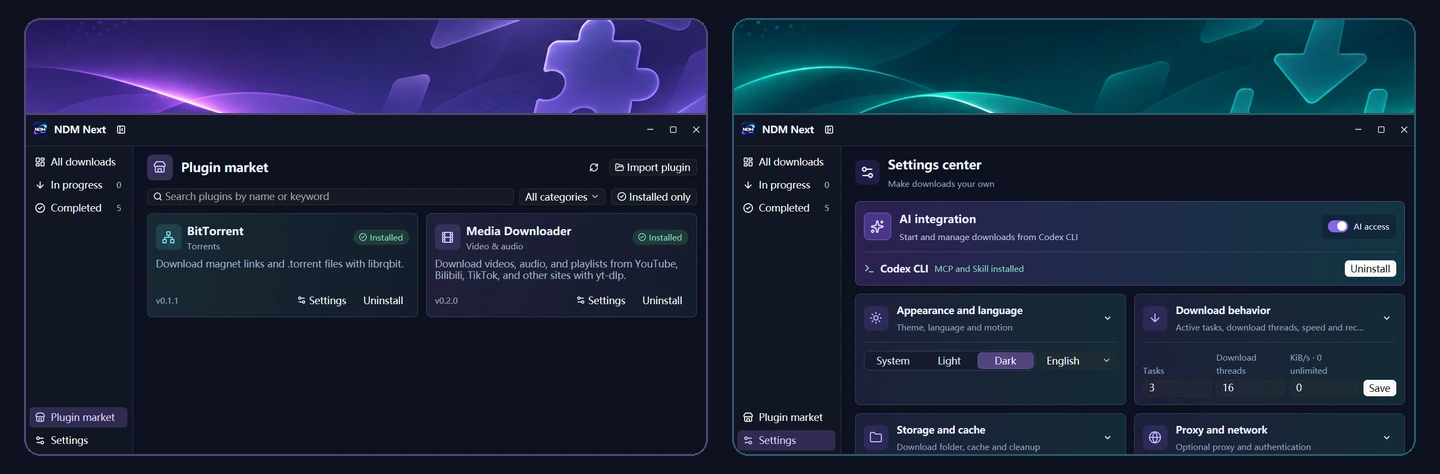
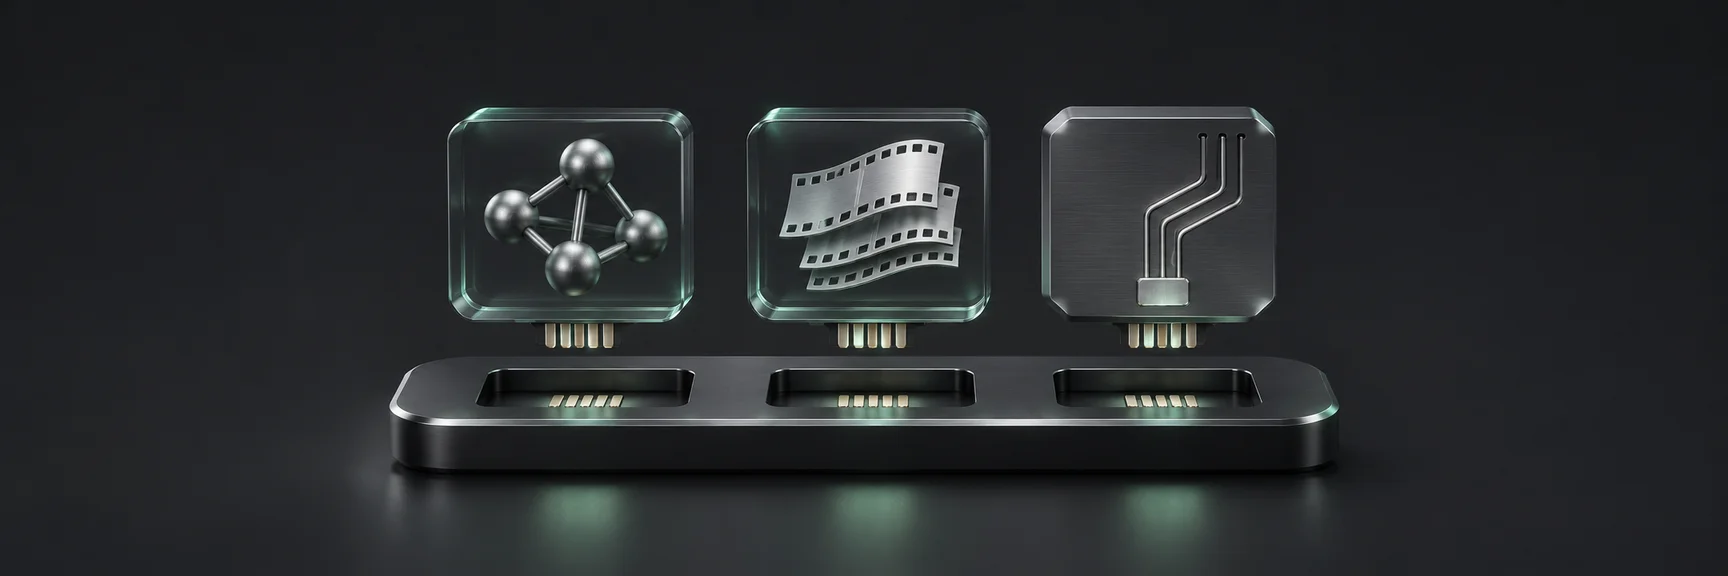
Refresh OnesDM README artwork and link to the renamed repository

diff --git a/README.md b/README.md
@@ -1,17 +1,17 @@
 <div align="center">
-  <img src="assets/onesdm.svg" width="96" alt="">
-  <h1>OnesDM</h1>
+  <img src="assets/readme/hero.webp" width="1200" alt="Parallel silver strands pass through a ring and converge into a single download stream.">
+  <h1><img src="assets/onesdm.svg" width="36" alt=""> OnesDM</h1>
   <p>Ones Download Manager · PlayOnes · AI-Native Download Manager</p>
   <p><strong>Any Agent. All Downloads.</strong></p>
   <p>Built with Rust and GPUI for Windows, macOS, and Linux, with a memory-safe core, pluggable download engines, and optional AI integration.</p>
   <p>Download torrents, magnet links, and streaming media with optional engines from the <a href="#plugins-and-ai">desktop plugin market</a>.</p>
   <p>
-    <a href="https://github.com/AreChen/NDM-Next/releases/latest"><img src="https://img.shields.io/github/v/release/AreChen/NDM-Next?label=download&amp;color=7c61ff" alt="Latest release"></a>
+    <a href="https://github.com/AreChen/onesdm/releases/latest"><img src="https://img.shields.io/github/v/release/AreChen/onesdm?label=download&amp;color=7c61ff" alt="Latest release"></a>
     <img src="https://img.shields.io/badge/platform-Windows%20%7C%20macOS%20%7C%20Linux-168aad" alt="Windows, macOS, and Linux">
-    <a href="https://github.com/AreChen/NDM-Next/actions/workflows/release.yml"><img src="https://github.com/AreChen/NDM-Next/actions/workflows/release.yml/badge.svg" alt="Desktop release build"></a>
-    <a href="LICENSE"><img src="https://img.shields.io/github/license/AreChen/NDM-Next?color=34b8a3" alt="MIT license"></a>
+    <a href="https://github.com/AreChen/onesdm/actions/workflows/release.yml"><img src="https://github.com/AreChen/onesdm/actions/workflows/release.yml/badge.svg" alt="Desktop release build"></a>
+    <a href="LICENSE"><img src="https://img.shields.io/github/license/AreChen/onesdm?color=34b8a3" alt="MIT license"></a>
   </p>
-  <p><a href="https://github.com/AreChen/NDM-Next/releases/latest"><strong>Download</strong></a> · <a href="#features">Features</a> · <a href="#screenshots">Screenshots</a> · <a href="#browser-extension">Browser extension</a> · <a href="README.zh-CN.md">简体中文</a></p>
+  <p><a href="https://github.com/AreChen/onesdm/releases/latest"><strong>Download</strong></a> · <a href="#features">Features</a> · <a href="#screenshots">Screenshots</a> · <a href="#browser-extension">Browser extension</a> · <a href="README.zh-CN.md">简体中文</a></p>
 </div>
 
 ## Features
@@ -24,7 +24,7 @@
 
 ## Download
 
-Get your installer from [**GitHub Releases →**](https://github.com/AreChen/NDM-Next/releases/latest).
+Get your installer from [**GitHub Releases →**](https://github.com/AreChen/onesdm/releases/latest).
 
 | Platform | Package | Install |
 | :--- | :--- | :--- |
@@ -51,7 +51,7 @@ NDM Next 0.6.x interface.
 
 ## Plugins and AI
 
-<img src="assets/readme/plugins-ai.webp" width="1200" alt="OnesDM plugin market and AI integration settings">
+<img src="assets/readme/plugins-ai.webp" width="1200" alt="Three plug-in modules representing BitTorrent, streaming media, and AI integration.">
 
 Install **BitTorrent** for `.torrent` files and magnet links, or **Media Downloader** for streaming video, audio, and playlists from supported sites. Both engines are available in the [desktop plugin market](assets/readme/plugin-market.webp).
 

diff --git a/README.zh-CN.md b/README.zh-CN.md
@@ -1,17 +1,17 @@
 <div align="center">
-  <img src="assets/onesdm.svg" width="96" alt="">
-  <h1>OnesDM</h1>
+  <img src="assets/readme/hero.webp" width="1200" alt="多股银色线束穿过银环，汇成一条下载流。">
+  <h1><img src="assets/onesdm.svg" width="36" alt=""> OnesDM</h1>
   <p>Ones Download Manager · PlayOnes · AI-Native Download Manager</p>
   <p><strong>Any Agent. All Downloads.</strong></p>
   <p>使用 Rust 和 GPUI 构建，支持 Windows、macOS 和 Linux，提供内存安全的下载核心、可扩展的下载引擎与可选的 AI 接入。</p>
   <p>通过<a href="#插件与-ai">桌面插件市场</a>安装下载引擎，即可下载种子、磁力链接和流媒体。</p>
   <p>
-    <a href="https://github.com/AreChen/NDM-Next/releases/latest"><img src="https://img.shields.io/github/v/release/AreChen/NDM-Next?label=download&amp;color=7c61ff" alt="最新版本"></a>
+    <a href="https://github.com/AreChen/onesdm/releases/latest"><img src="https://img.shields.io/github/v/release/AreChen/onesdm?label=download&amp;color=7c61ff" alt="最新版本"></a>
     <img src="https://img.shields.io/badge/platform-Windows%20%7C%20macOS%20%7C%20Linux-168aad" alt="支持 Windows、macOS 和 Linux">
-    <a href="https://github.com/AreChen/NDM-Next/actions/workflows/release.yml"><img src="https://github.com/AreChen/NDM-Next/actions/workflows/release.yml/badge.svg" alt="桌面端发布构建"></a>
-    <a href="LICENSE"><img src="https://img.shields.io/github/license/AreChen/NDM-Next?color=34b8a3" alt="MIT 许可证"></a>
+    <a href="https://github.com/AreChen/onesdm/actions/workflows/release.yml"><img src="https://github.com/AreChen/onesdm/actions/workflows/release.yml/badge.svg" alt="桌面端发布构建"></a>
+    <a href="LICENSE"><img src="https://img.shields.io/github/license/AreChen/onesdm?color=34b8a3" alt="MIT 许可证"></a>
   </p>
-  <p><a href="https://github.com/AreChen/NDM-Next/releases/latest"><strong>下载应用</strong></a> · <a href="#功能">功能</a> · <a href="#界面截图">界面截图</a> · <a href="#浏览器扩展">浏览器扩展</a> · <a href="README.md">English</a></p>
+  <p><a href="https://github.com/AreChen/onesdm/releases/latest"><strong>下载应用</strong></a> · <a href="#功能">功能</a> · <a href="#界面截图">界面截图</a> · <a href="#浏览器扩展">浏览器扩展</a> · <a href="README.md">English</a></p>
 </div>
 
 ## 功能
@@ -24,7 +24,7 @@
 
 ## 下载
 
-前往 [**GitHub Releases 获取安装包 →**](https://github.com/AreChen/NDM-Next/releases/latest)。
+前往 [**GitHub Releases 获取安装包 →**](https://github.com/AreChen/onesdm/releases/latest)。
 
 | 平台 | 安装包 | 安装方式 |
 | :--- | :--- | :--- |
@@ -51,7 +51,7 @@
 
 ## 插件与 AI
 
-<img src="assets/readme/plugins-ai.webp" width="1200" alt="OnesDM 插件市场和 AI 接入设置">
+<img src="assets/readme/plugins-ai.webp" width="1200" alt="三个可插拔模块分别代表 BitTorrent、流媒体下载和 AI 接入。">
 
 在[桌面插件市场](assets/readme/plugin-market.webp)安装 **BitTorrent**，即可下载 `.torrent` 文件和磁力链接。安装 **Media Downloader**，即可下载受支持网站的流媒体视频、音频和播放列表。
 
